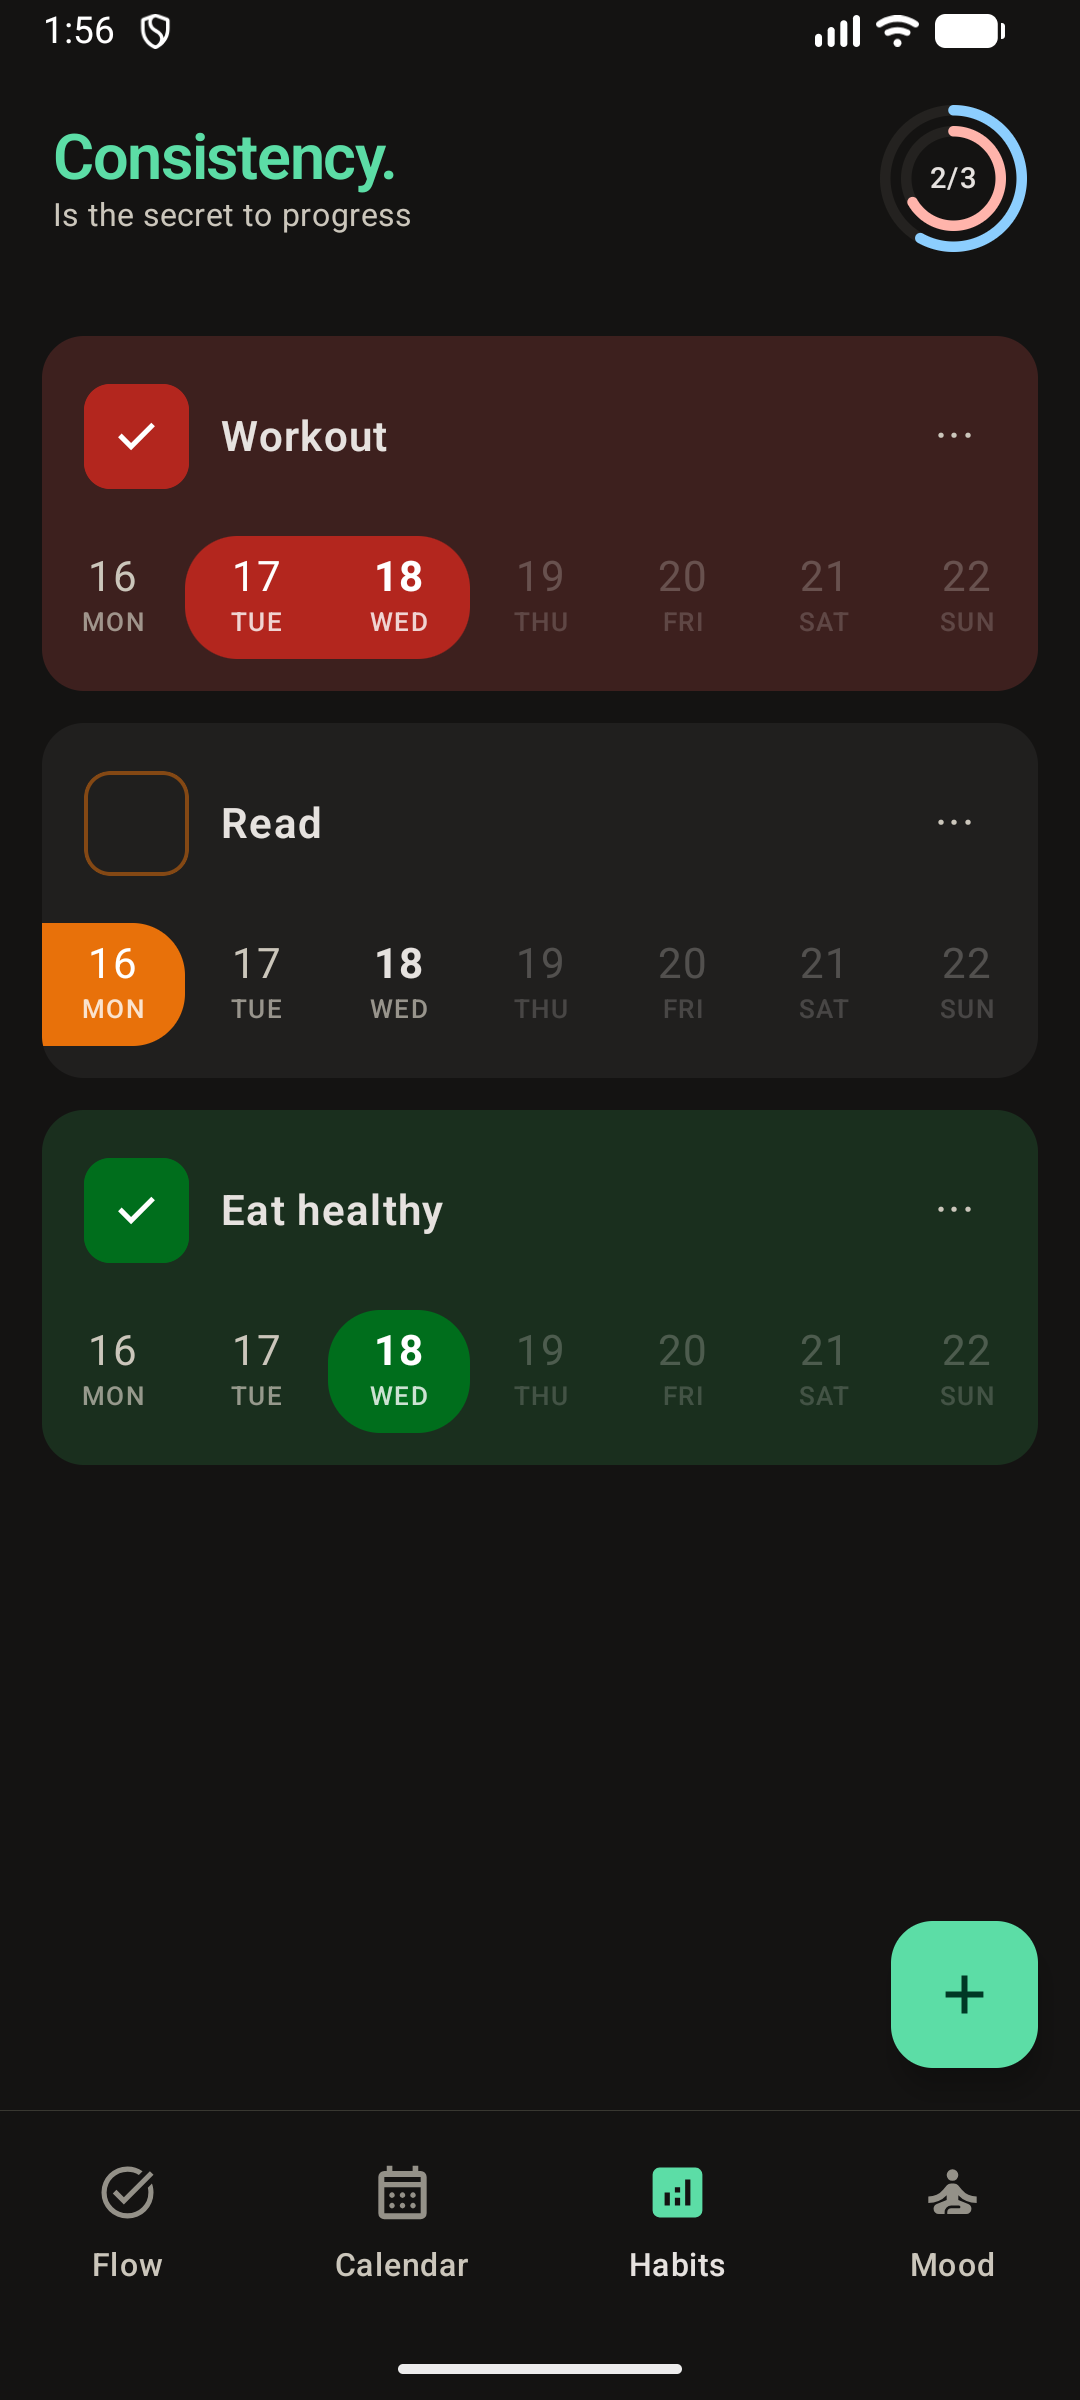
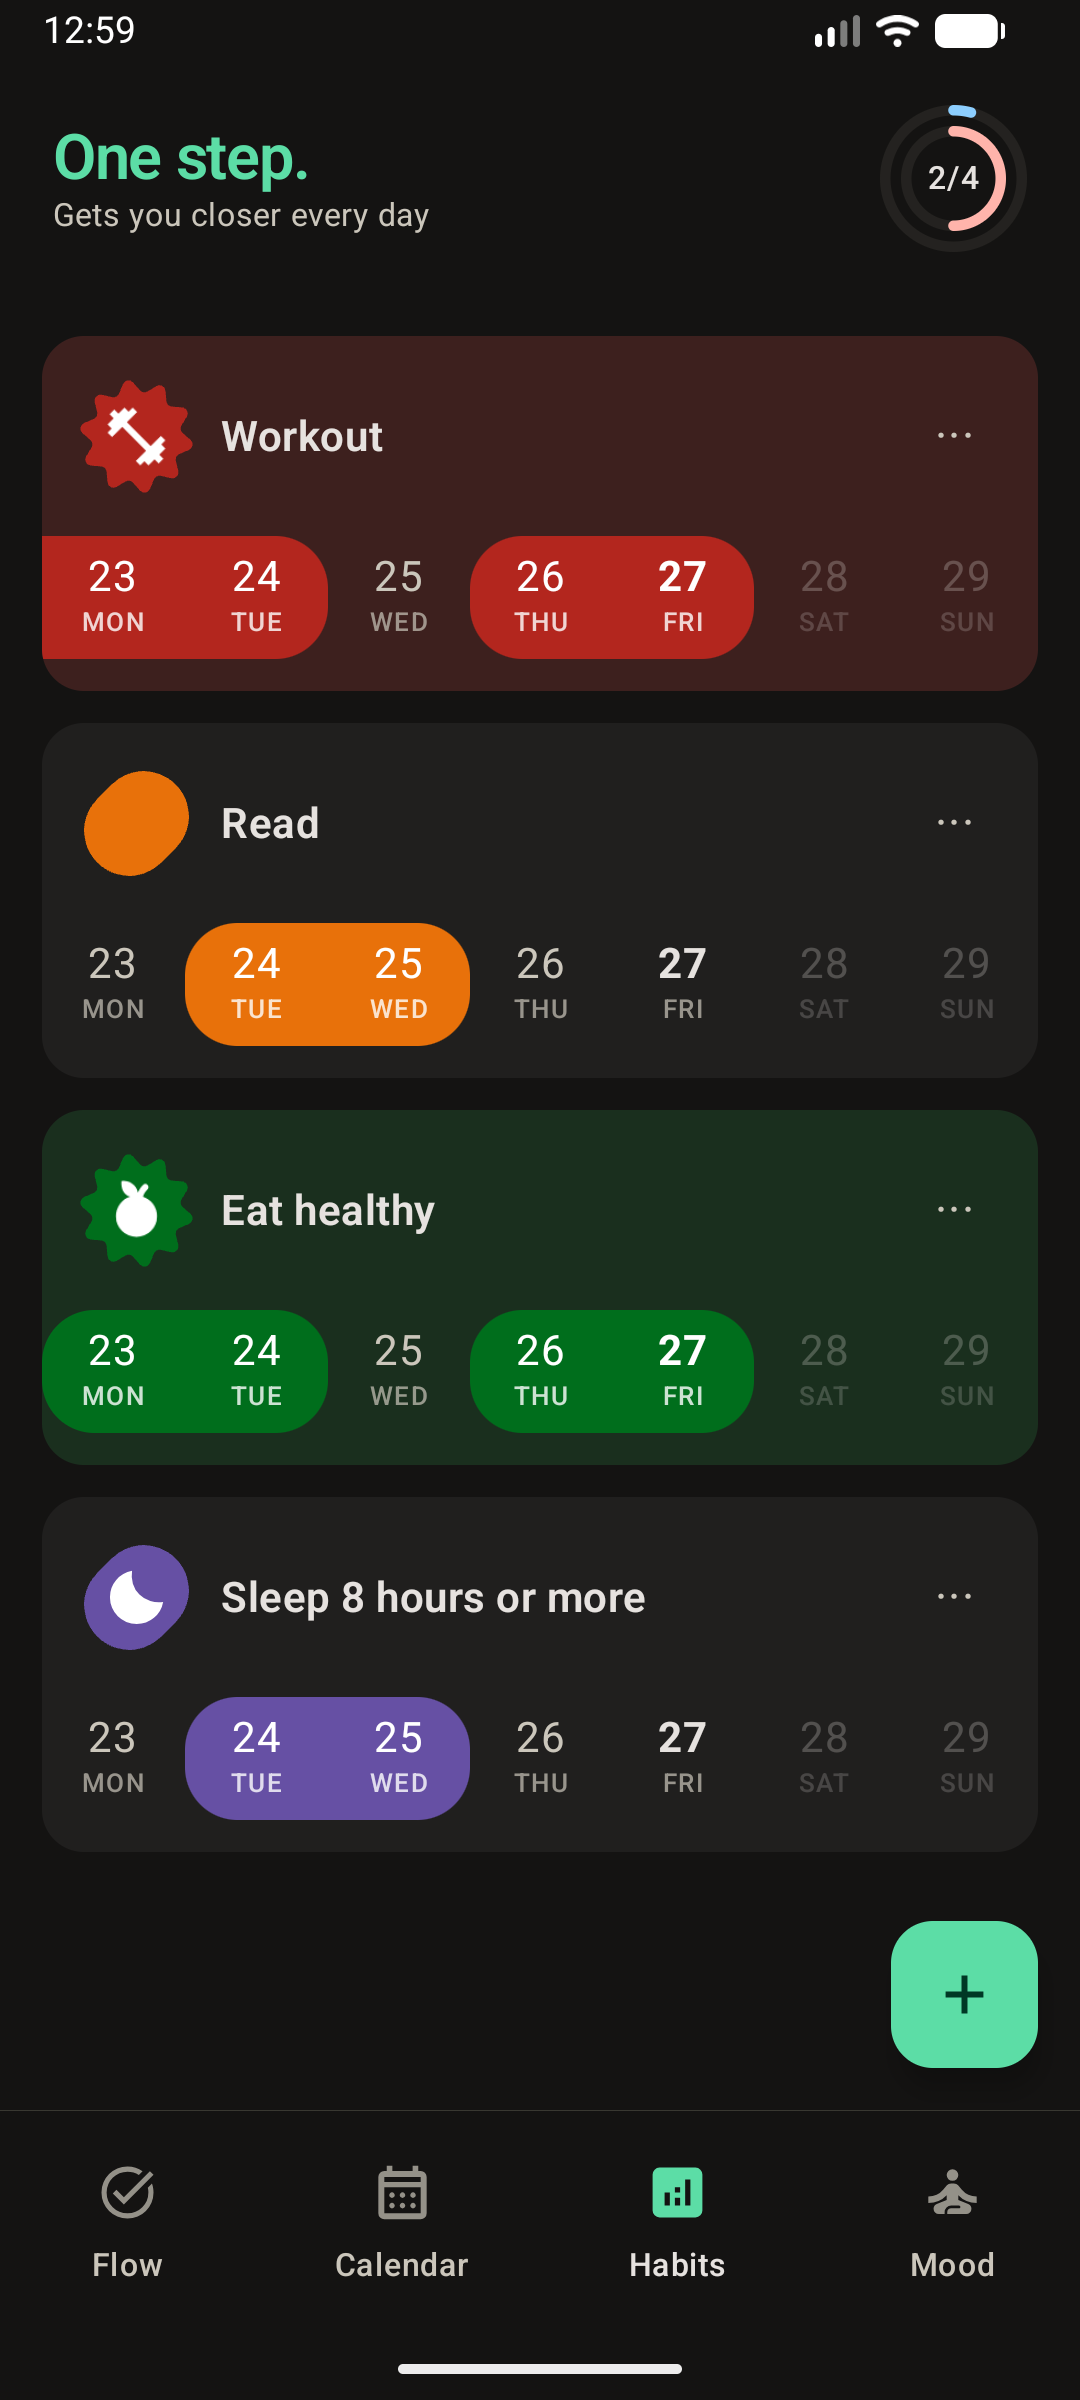
docs: update screenshots
Added icon compatibility, you can edit the icon too. I can add more icons if needed.

diff --git a/README.md b/README.md
@@ -13,9 +13,9 @@
 ## Screenshots
 
 <div align="center">
-  <img src="screenshots/home_dark.png" width="31%" />
   <img src="screenshots/home_light.png" width="31%" />
-  <img src="screenshots/calendar_night.png" width="31%" />
+  <img src="screenshots/grid_light.png" width="31%" />
+  <img src="screenshots/calendar_light.png" width="31%" />
   <br>
   <img src="screenshots/habits_prev.png" width="31%" />
   <img src="screenshots/habits_details.png" width="31%" />
@@ -30,7 +30,7 @@
 - **Swipe Actions**: Swipe to delete tasks with smooth animations
 - **Drag & Drop**: Reorder tasks via intuitive drag handles
 - **Auto-save**: Changes are saved automatically when editing a task
-- **Material 3**: Modern design with dynamic colors
+- **Material 3**: Modern design
 - **Task Scheduling**: Add due dates
 - **Calendar** view
 - **Habit Tracking**: Build daily routines and track streaks
@@ -74,7 +74,7 @@ This project was mainly a way for me to learn modern **Kotlin** (coming from a J
 
     -Click the Run button
 
-## 🤝 How to Contribute
+## How to Contribute
 
 We welcome contributions! Here's how you can help:
 
